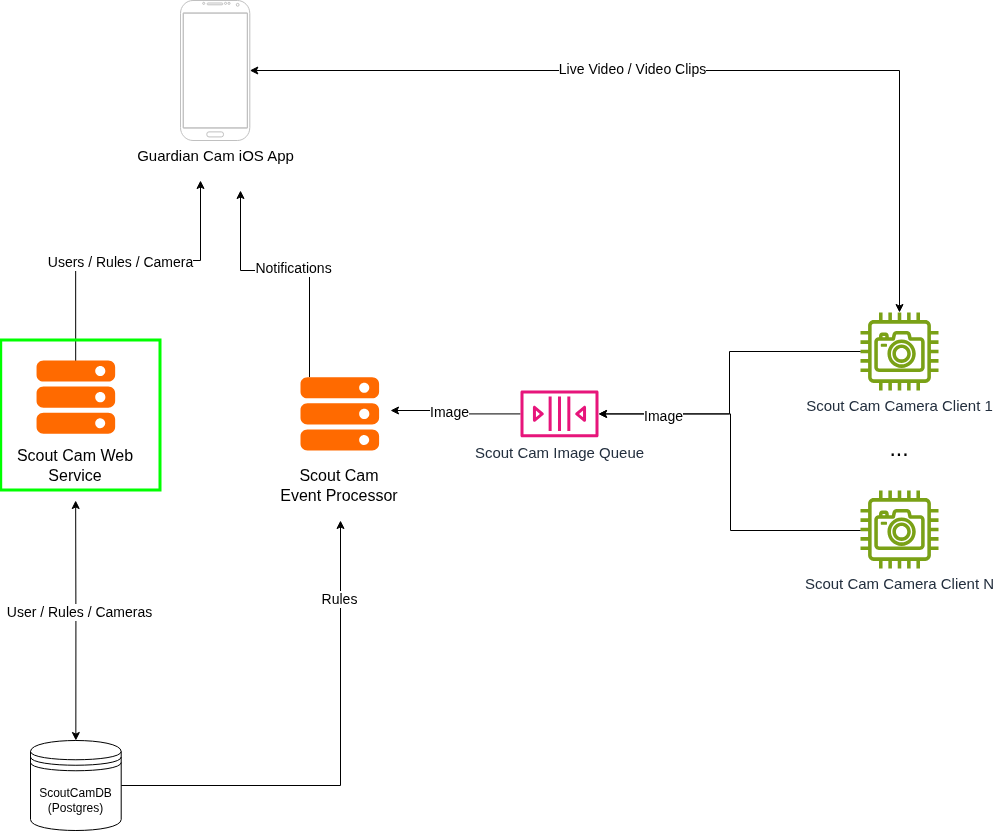
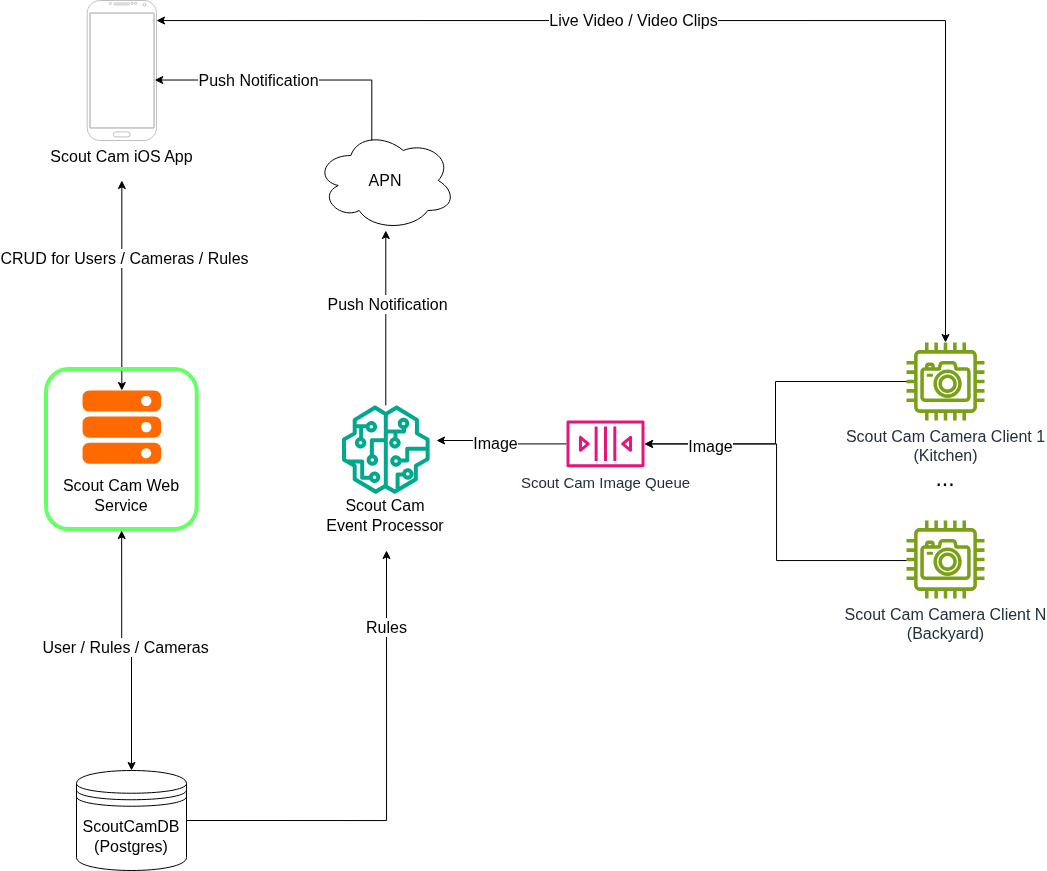
Updated system diagram and readme

diff --git a/README.md b/README.md
@@ -8,10 +8,16 @@ UUIDv7 function.
 # System Diagram
 ![Scout Cam System Diagram](images/ScoutCamSystemDiagram_web_service.png)
 
-### Other parts of the system
-[Scout Cam Event Processor](https://github.com/ataffe/ScoutCamEventProcessor)
+### Brief Overview
+[Scout Cam Web Service](https://github.com/ataffe/ScoutCamEventProcessor) - Handles CRUD operations for Users, Cameras, and Rules.
 
-[Scout Cam Camera Client](https://github.com/ataffe/GuardianCamCameraClient)
+[Scout Cam Event Processor](https://github.com/ataffe/GuardianCamCameraClient) - Processes images received from cameras and send users a push notification if the 
+image matches one or more of the users rules.
+
+[Scout Cam Camera Client](https://github.com/ataffe/GuardianCamCameraClient) - Detects Motion and filters images using object detection and then sends the image to the 
+event processor if an object is detected.
+
+Scout Cam iOS App - User app for managing cameras and notifing the user of events.
 
 ---
 